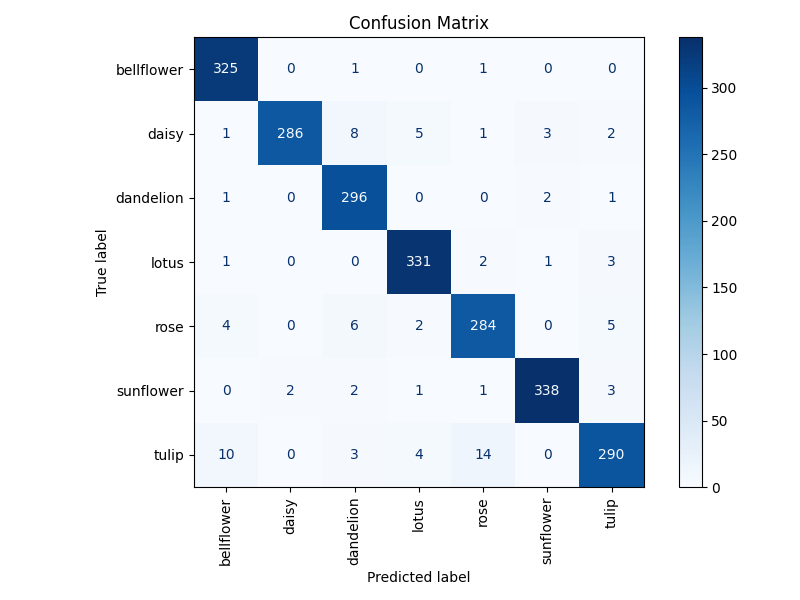
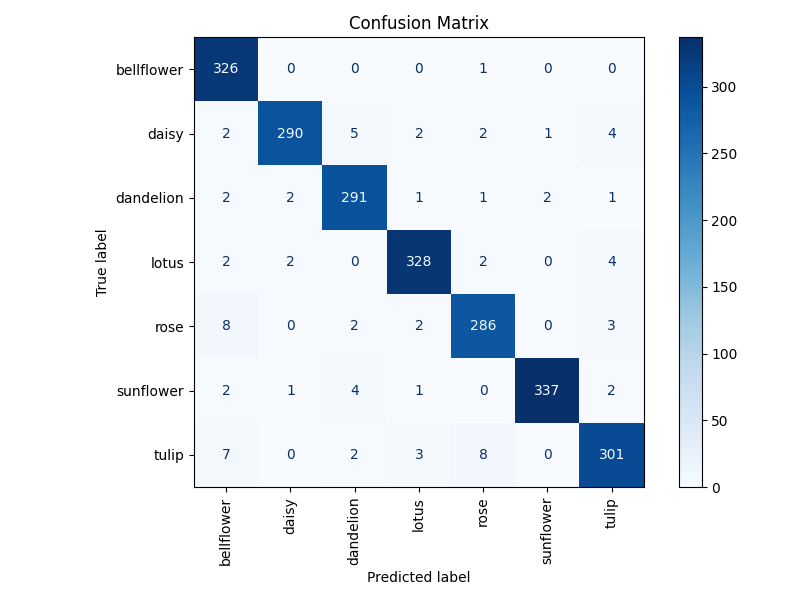
Update feature for detecting images outside the dataset for the model

diff --git a/src/predict.py b/src/predict.py
@@ -39,9 +39,8 @@ def predict_image(model, image_path, class_names, topk=3, threshold=0.6):
     transform = transforms.Compose([
         transforms.Resize((224, 224)),
         transforms.ToTensor(),
-        transforms.Normalize([0.485, 0.456, 0.406],
-                             [0.229, 0.224, 0.225])
-    ])
+        transforms.Normalize([0.485, 0.456, 0.406], [0.229, 0.224, 0.225])
+        ])
 
     image = Image.open(image_path).convert('RGB')
     img_t = transform(image).unsqueeze(0)

diff --git a/src/train.py b/src/train.py
@@ -176,7 +176,7 @@ def main(args):
     )
 
     model = build_model(cfg['model'], num_classes=len(classes)).to(device)
-    criterion = nn.CrossEntropyLoss()
+    criterion = nn.CrossEntropyLoss(label_smoothing=0.1)
     optimizer = optim.Adam(model.parameters(), lr=cfg['train']['learning_rate'])
 
     # ✅ Sửa đoạn scheduler (gọn, không lỗi, không tốn thêm tài nguyên)
